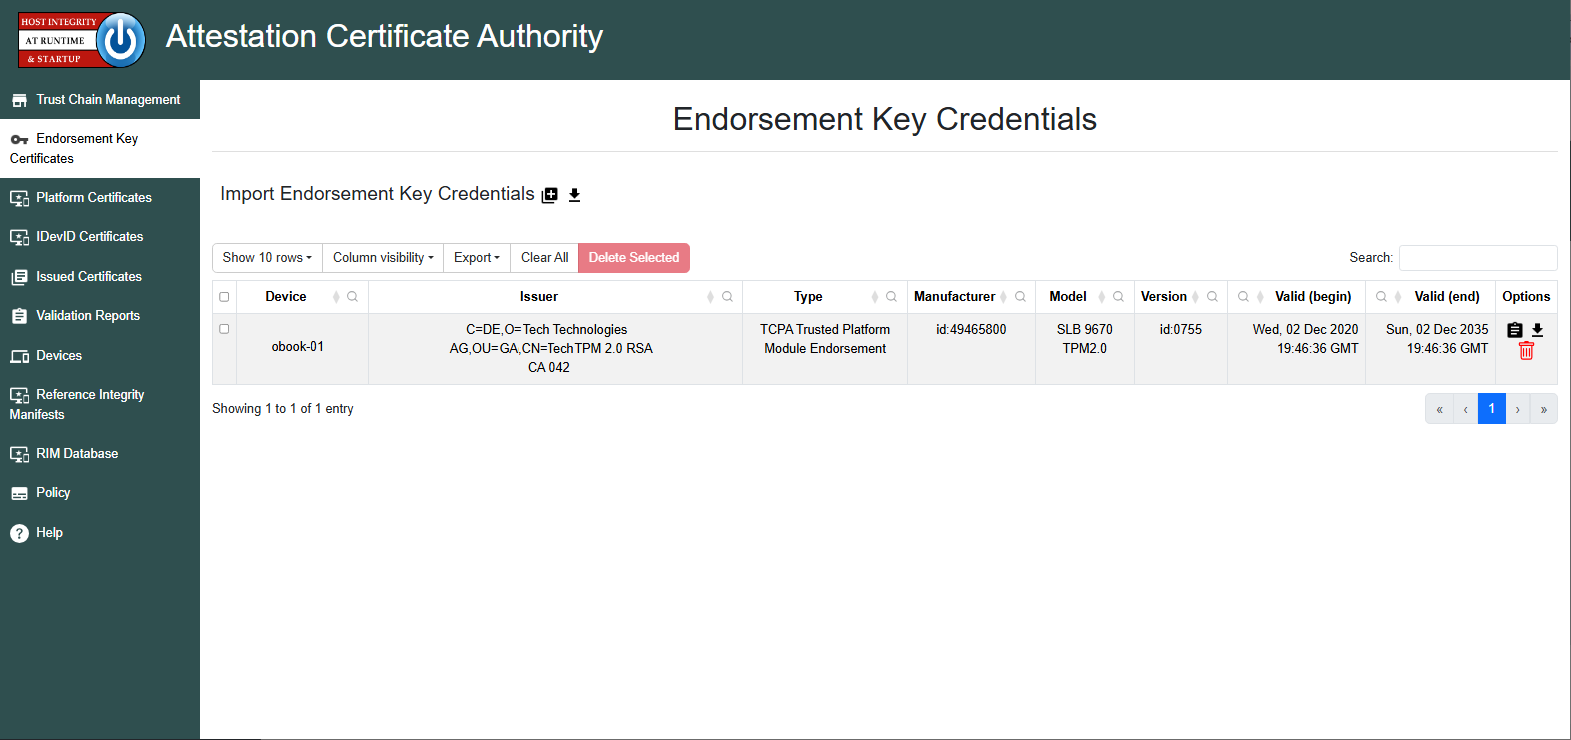
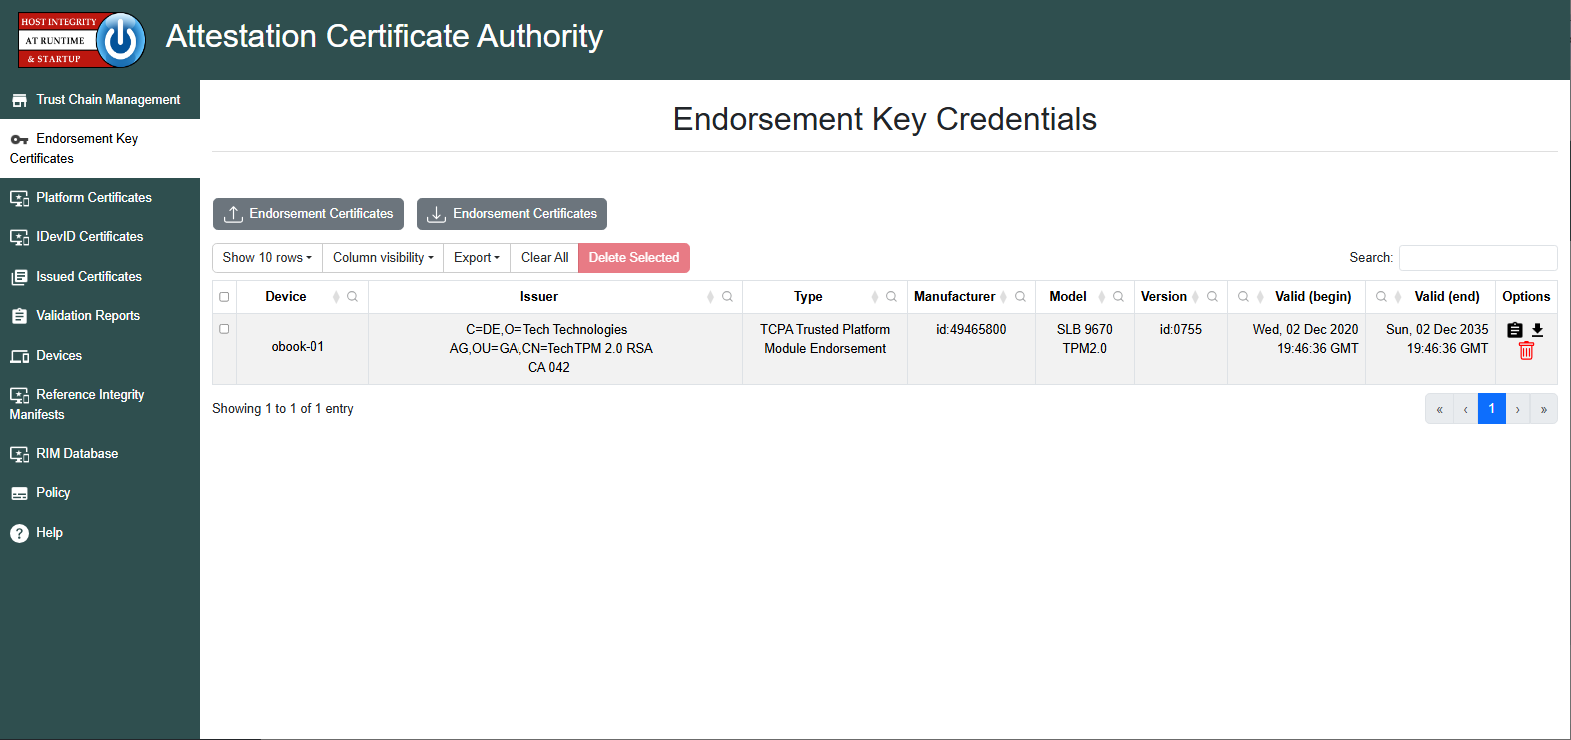
updating portal images

Changed region(s): [[0.1248, 0.2486, 0.4055, 0.3108]]

diff --git a/HIRS_AttestationCAPortal/src/main/resources/templates/rim-details.html b/HIRS_AttestationCAPortal/src/main/resources/templates/rim-details.html
@@ -509,7 +509,7 @@
                                                                 <th:block th:unless="${#strings.isEmpty(resource.id)}">
                                                                 <a
                                                                     th:href="@{/HIRS_AttestationCAPortal/portal/rim-details?(id=${resource.id})}">
-                                                                    <span th:text="${resource.name}">Resource File</span>
+                                                                    <span th:text="${#strings.isEmpty(resource.name)} ? 'Unnamed Support RIM' : ${resource.name}"></span>
                                                                 </a>
                                                                 </th:block>
                                                                 <th:block

diff --git a/HIRS_AttestationCA/src/main/java/hirs/attestationca/persist/service/ReferenceManifestDetailsPageService.java b/HIRS_AttestationCA/src/main/java/hirs/attestationca/persist/service/ReferenceManifestDetailsPageService.java
@@ -2,9 +2,11 @@ package hirs.attestationca.persist.service;
 
 import hirs.attestationca.persist.entity.manager.CACredentialRepository;
 import hirs.attestationca.persist.entity.manager.CertificateRepository;
+import hirs.attestationca.persist.entity.manager.PolicyRepository;
 import hirs.attestationca.persist.entity.manager.ReferenceDigestValueRepository;
 import hirs.attestationca.persist.entity.manager.ReferenceManifestRepository;
 import hirs.attestationca.persist.entity.userdefined.Certificate;
+import hirs.attestationca.persist.entity.userdefined.PolicySettings;
 import hirs.attestationca.persist.entity.userdefined.ReferenceManifest;
 import hirs.attestationca.persist.entity.userdefined.certificate.CertificateAuthorityCredential;
 import hirs.attestationca.persist.entity.userdefined.rim.BaseReferenceManifest;
@@ -13,6 +15,7 @@ import hirs.attestationca.persist.entity.userdefined.rim.ReferenceDigestValue;
 import hirs.attestationca.persist.entity.userdefined.rim.SupportReferenceManifest;
 import hirs.attestationca.persist.exceptions.DBServiceException;
 import hirs.attestationca.persist.exceptions.SupplyChainValidatorException;
+import hirs.attestationca.persist.validation.PcrValidator;
 import hirs.attestationca.persist.validation.SupplyChainCredentialValidator;
 import hirs.attestationca.persist.validation.ValidationService;
 import hirs.utils.SwidResource;
@@ -58,6 +61,7 @@ public class ReferenceManifestDetailsPageService {
     private final ReferenceDigestValueRepository referenceDigestValueRepository;
     private final CertificateRepository certificateRepository;
     private final CACredentialRepository caCertificateRepository;
+    private final PolicyRepository policyRepository;
 
     /**
      * Constructor for the Reference Manifest Details Page Service.
@@ -71,11 +75,13 @@ public class ReferenceManifestDetailsPageService {
     public ReferenceManifestDetailsPageService(final ReferenceManifestRepository referenceManifestRepository,
                                                final ReferenceDigestValueRepository referenceDigestValueRepository,
                                                final CertificateRepository certificateRepository,
-                                               final CACredentialRepository caCertificateRepository) {
+                                               final CACredentialRepository caCertificateRepository,
+                                               final PolicyRepository policyRepository) {
         this.referenceManifestRepository = referenceManifestRepository;
         this.referenceDigestValueRepository = referenceDigestValueRepository;
         this.certificateRepository = certificateRepository;
         this.caCertificateRepository = caCertificateRepository;
+        this.policyRepository = policyRepository;
     }
 
     /**
@@ -516,7 +522,6 @@ public class ReferenceManifestDetailsPageService {
     private HashMap<String, Object> getMeasurementsRimInfo(final EventLogMeasurements measurements)
             throws IOException {
         HashMap<String, Object> data = new HashMap<>();
-        LinkedList<TpmPcrEvent> unmatchedAttestationEvents = new LinkedList<>();
         BaseReferenceManifest base;
         List<SupportReferenceManifest> supports = new ArrayList<>();
         SupportReferenceManifest baseSupport = null;
@@ -560,11 +565,18 @@ public class ReferenceManifestDetailsPageService {
         for (ReferenceDigestValue record : assertions) {
             referenceValueMap.put(record.getDigestValue(), record);
         }
-        for (TpmPcrEvent attestationEvent : measurementLog.getEventList()) {
-            if (!referenceValueMap.containsKey(attestationEvent.getEventDigestStr())) {
-                unmatchedAttestationEvents.add(attestationEvent);
-            }
+
+        PolicySettings policySettings = this.policyRepository.findByName("Default");
+        if (policySettings == null) {
+            policySettings = new PolicySettings("Default",
+                    "Settings are configured for no validation flags set.");
         }
+
+        PcrValidator pcrValidator = new PcrValidator();
+        LinkedList<TpmPcrEvent> unmatchedAttestationEvents =
+                new LinkedList<>(pcrValidator.validateTpmEvents(measurementLog,
+                                                                referenceValueMap,
+                                                                policySettings));
 
         if (!supports.isEmpty()) {
             Map<String, List<TpmPcrEvent>> baselineLogEvents = new HashMap<>();

diff --git a/HIRS_AttestationCA/src/main/java/hirs/attestationca/persist/validation/PcrValidator.java b/HIRS_AttestationCA/src/main/java/hirs/attestationca/persist/validation/PcrValidator.java
@@ -8,6 +8,7 @@ import hirs.attestationca.persist.tpm.PcrInfoShort;
 import hirs.attestationca.persist.tpm.PcrSelection;
 import hirs.utils.tpm.eventlog.TCGEventLog;
 import hirs.utils.tpm.eventlog.TpmPcrEvent;
+import hirs.utils.tpm.eventlog.events.EvConstants;
 import lombok.extern.log4j.Log4j2;
 import org.apache.commons.codec.DecoderException;
 import org.apache.commons.codec.binary.Hex;
@@ -30,9 +31,7 @@ public class PcrValidator {
 
     private static final int NUM_TO_SKIP = 1;
     private static final int NUM_OF_TBOOT_PCR = 3;
-    // PCR 5-16
-    private static final int PXE_PCR_START = 5;
-    private static final int PXE_PCR_END = 16;
+    private static final int FIRMWARE_PCR_END = 7;
     // PCR 10
     private static final int IMA_PCR = 10;
     // PCR 17-19
@@ -49,6 +48,8 @@ public class PcrValidator {
     private static final String EVT_EFI_CFG = "EV_EFI_VARIABLE_DRIVER_CONFIG";
 
     private String[] baselinePcrs;
+    // False until PCR 0-7 EV_SEPARATOR is read
+    private boolean[] firmwareBootFinished = new boolean[8];
 
     /**
      * Default constructor.
@@ -191,23 +192,20 @@ public class PcrValidator {
             } else if (policySettings.isIgnoretBootEnabled() && (tpe.getPcrIndex() >= TBOOT_PCR_START
                     && tpe.getPcrIndex() <= TBOOT_PCR_END)) {
                 log.debug(String.format("TBOOT Ignored -> %s", tpe));
-            } else if (policySettings.isIgnoreOsEvtEnabled() && (tpe.getPcrIndex() >= PXE_PCR_START
-                    && tpe.getPcrIndex() <= PXE_PCR_END)) {
+            } else if (policySettings.isIgnoreOsEvtEnabled() && (tpe.getPcrIndex() > FIRMWARE_PCR_END)) {
                 log.debug(String.format("OS Evt Ignored -> %s", tpe));
             } else {
                 if (policySettings.isIgnoreGptEnabled() && tpe.getEventTypeStr().contains(EVT_EFI_GPT)) {
                     log.debug(String.format("GPT Ignored -> %s", tpe));
-                } else if (policySettings.isIgnoreOsEvtEnabled() && (
-                        tpe.getEventTypeStr().contains(EVT_EFI_BOOT)
-                                || tpe.getEventTypeStr().contains(EVT_EFI_VAR))) {
-                    log.debug(String.format("OS Evt Ignored -> %s", tpe));
-                } else if (policySettings.isIgnoreOsEvtEnabled() && (
-                        tpe.getEventTypeStr().contains(EVT_EFI_CFG)
-                                && tpe.getEventContentStr().contains("SecureBoot"))) {
-                    log.debug(String.format("OS Evt Config Ignored -> %s", tpe));
+                } else if (policySettings.isIgnoreOsEvtEnabled()
+                        && firmwareBootFinished[tpe.getPcrIndex()]) {
+                    log.debug(String.format("Firmware boot finished -> %s", tpe));
                 } else {
                     if (!eventLogRecords.containsKey(tpe.getEventDigestStr())) {
                         tpmPcrEventsNotExpected.add(tpe);
+                    }
+                    if (tpe.getEventType() == EvConstants.EV_SEPARATOR) {
+                        firmwareBootFinished[tpe.getPcrIndex()] = true;
                     }
                 }
             }

diff --git a/HIRS_AttestationCA/src/main/java/hirs/attestationca/persist/validation/SupplyChainValidationService.java b/HIRS_AttestationCA/src/main/java/hirs/attestationca/persist/validation/SupplyChainValidationService.java
@@ -406,18 +406,19 @@ public class SupplyChainValidationService {
     }
 
     /**
-     * Helper function that retrieves the default policy settings from the database.
+     * Helper function that retrieves the current policy settings from the database.
+     * If no policy settings have been set then all values are set to default.
      *
-     * @return The default Supply Chain Policy Settings
+     * @return The Supply Chain Policy Settings
      */
     private PolicySettings getPolicySettings() {
-        PolicySettings defaultSettings = this.policyRepository.findByName("Default");
+        PolicySettings policySettings = this.policyRepository.findByName("Default");
 
-        if (defaultSettings == null) {
-            defaultSettings = new PolicySettings("Default",
+        if (policySettings == null) {
+            policySettings = new PolicySettings("Default",
                     "Settings are configured for no validation flags set.");
         }
-        return defaultSettings;
+        return policySettings;
     }
 
     /**

diff --git a/HIRS_AttestationCA/src/main/java/hirs/attestationca/persist/validation/FirmwareScvValidator.java b/HIRS_AttestationCA/src/main/java/hirs/attestationca/persist/validation/FirmwareScvValidator.java
@@ -304,8 +304,9 @@ public class FirmwareScvValidator extends SupplyChainCredentialValidator {
                 try {
                     if (measurement.getDeviceName().equals(hostName)) {
                         tcgMeasurementLog = new TCGEventLog(measurement.getRimBytes());
-                        eventValue = referenceDigestValueRepository
-                                .findValuesByBaseRimId(baseReferenceManifest.getId());
+                        eventValue = referenceDigestValueRepository.findByManufacturerAndModel(
+                                device.getDeviceInfo().getHardwareInfo().getManufacturer(),
+                                device.getDeviceInfo().getHardwareInfo().getProductName());
                         for (ReferenceDigestValue rdv : eventValue) {
                             eventValueMap.put(rdv.getDigestValue(), rdv);
                         }

diff --git a/docs/webportal/portal-trust-chain.md b/docs/webportal/portal-trust-chain.md
@@ -20,27 +20,22 @@ Attestation, Endorsement, or Platform certificate).
 
 <img src= "../../images/portal-trust.png" alt="Portal Trustchain page" style="border: 2px solid grey;">
 
-By default, the ACA generates a certificate chain that is used for verifying all issued 
+The user can upload/download trusted certificates (intermediate and root)
+from all organizations involved with the supply chain via
+buttons at the top left of the page. To download a specific certificate, the user can click on the "
+<img src="../../images/portal-download.png" alt="clipboard" width="20" height="20" style="vertical-align:middle;">
+icon to the far right of that certificate listed.
+
+The user can also view or download the ACA trust chain certificates via buttons at the top left of 
+the page. By default, the ACA generates a certificate chain that is used for verifying all issued 
 Attestation Certificates. An Attestation CA certificate may be signed by a CA and replaced 
 (the ACA certificate would become a subordinate to the root CA). In either case, the CA 
 certificate must be trusted by a TPM Quote appraiser.
 
-Clicking the
-<img src="../../images/portal-clipboard.png" alt="clipboard" width="20" height="20" style="vertical-align:middle;">
-icon next to the “HIRS Attestation CA Certificate” label on the Trust Chain 
-Management page allows a user to view the ACA’s certificates. 
-
-<img src= "../../images/portal-trust-clipboard.png" alt="Portal Trustchain page" class="center" style="border: 2px solid grey;">
-
-This HIRS certificate chain will be required in future processing of TPM Quotes, since TPM Quotes 
-are signed by the TPM’s Attestation Key (AK). For example, selecting the clipboard to view 
-the HIRS certificate chain would look like:
+For example, selecting the "View ACA Certificates" button at the top left will allow the user to 
+select one of the certificates in the chain (root, intermediate, leaf) and view the details: 
 
 <img src= "../../images/portal-trust-hirsroot.png" alt="Portal Trustchain page" style="border: 2px solid grey;">
 
-Clicking the
-<img src="../../images/portal-download.png" alt="clipboard" width="20" height="20" style="vertical-align:middle;">
-icon allows a user to download the ACA's certificates. 
-
-Other CA certificates (from any organization involved with the supply chain) can be uploaded, 
-downloaded, deleted, or viewed using the icon selections next to the "Trust Chain CA Certificates" label. 
+This ACA trust chain certificates will be required in future processing of TPM Quotes, since TPM Quotes
+are signed by the TPM’s Attestation Key. 

diff --git a/docs/webportal/portal-issued-certs.md b/docs/webportal/portal-issued-certs.md
@@ -25,6 +25,4 @@ The user can view the details in the Issued Certificate by clicking the
 <img src="../../images/portal-clipboard.png" alt="clipboard" width="20" height="20" style="vertical-align:middle;">
 icon under the `Options` tab:
 
-<img src= "../../images/portal-issued-clipboard.png" alt="Portal Issued Certificates page" class="center" style="border: 2px solid grey;">
-
 <img src= "../../images/portal-issued-cert.png" alt="Portal Platform Cert page" style="border: 2px solid grey;">
